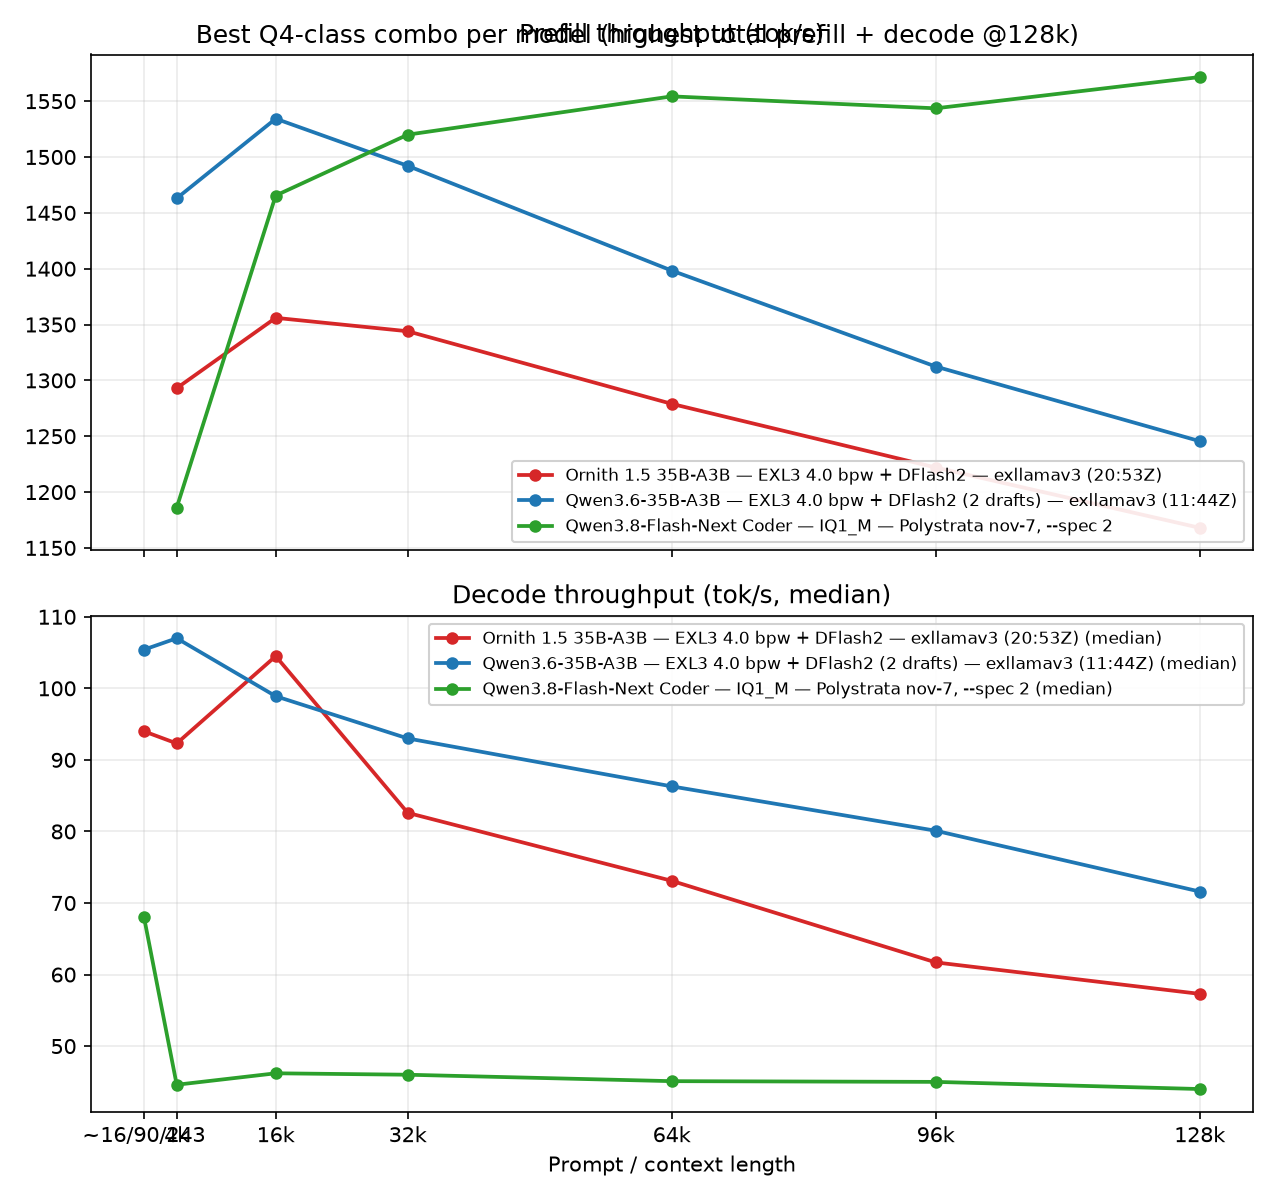
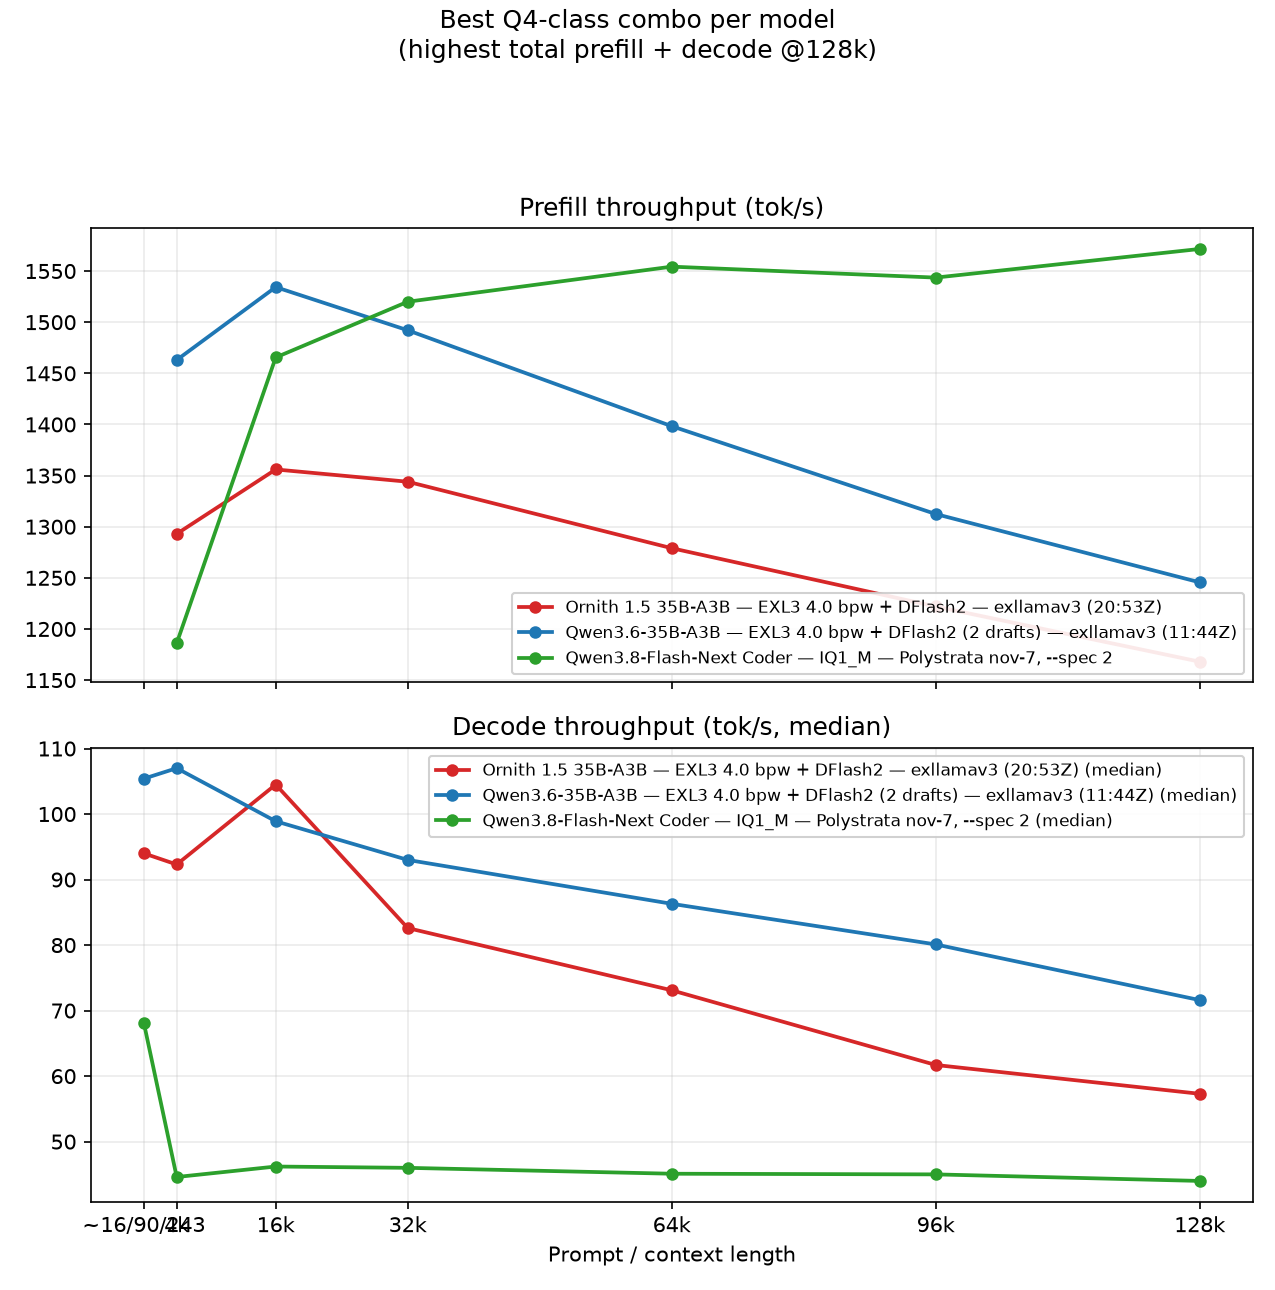
fix mangled text

diff --git a/plots/best_q4_128k.py b/plots/best_q4_128k.py
@@ -46,7 +46,7 @@ RUNS = [
 
 
 def main():
-    fig, (ax_pre, ax_dec) = plt.subplots(2, 1, figsize=(8.5, 8.0), sharex=True)
+    fig, (ax_pre, ax_dec) = plt.subplots(2, 1, figsize=(8.5, 8.6), sharex=True)
 
     for r in RUNS:
         ax_pre.plot(prefill_x, r["prefill"], marker="o", color=r["color"],
@@ -64,11 +64,12 @@ def main():
     ax_dec.set_xlabel("Prompt / context length")
     ax_dec.legend(loc="upper right", fontsize=8, framealpha=0.9)
 
-    fig.tight_layout()
     fig.suptitle(
-        "Best Q4-class combo per model (highest total prefill + decode @128k)"
+        "Best Q4-class combo per model\n(highest total prefill + decode @128k)",
+        y=0.995,
     )
     out = os.path.join(os.path.dirname(__file__), "best_q4_128k.png")
+    fig.tight_layout(rect=(0, 0, 1, 0.93))
     fig.savefig(out, dpi=150)
     print("saved", out)
 
